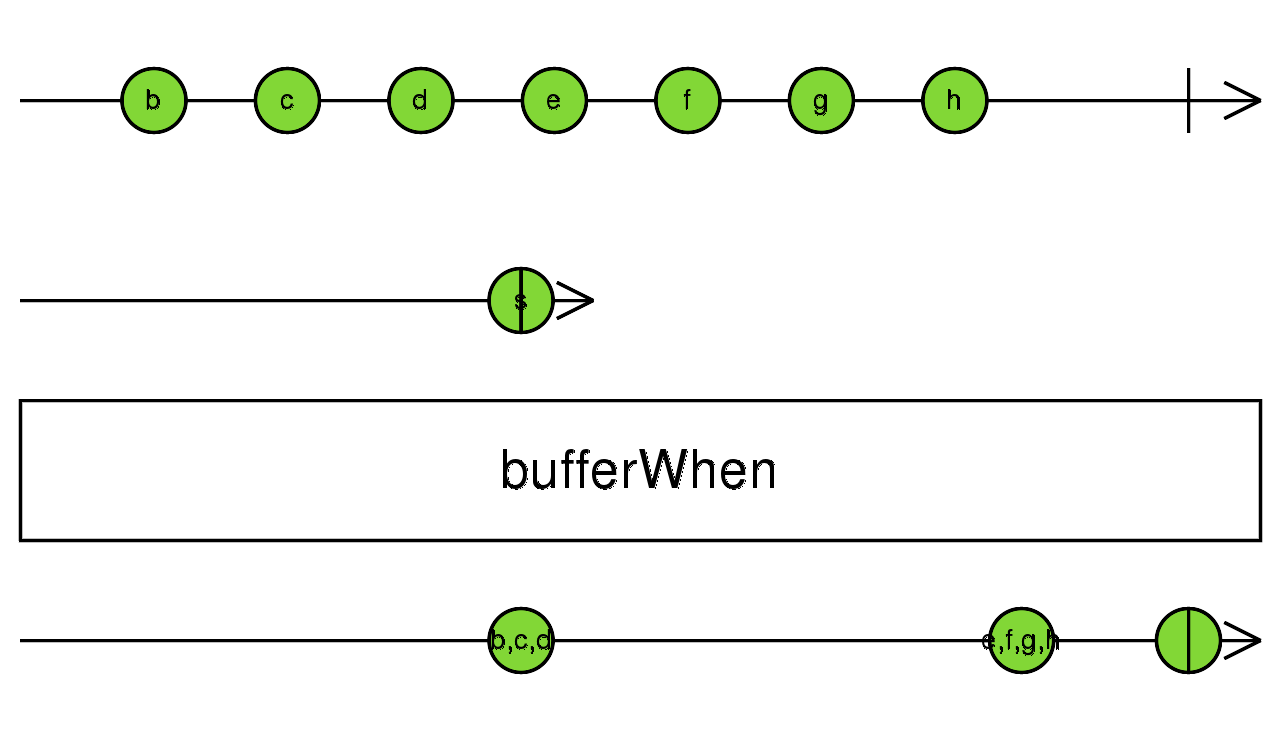
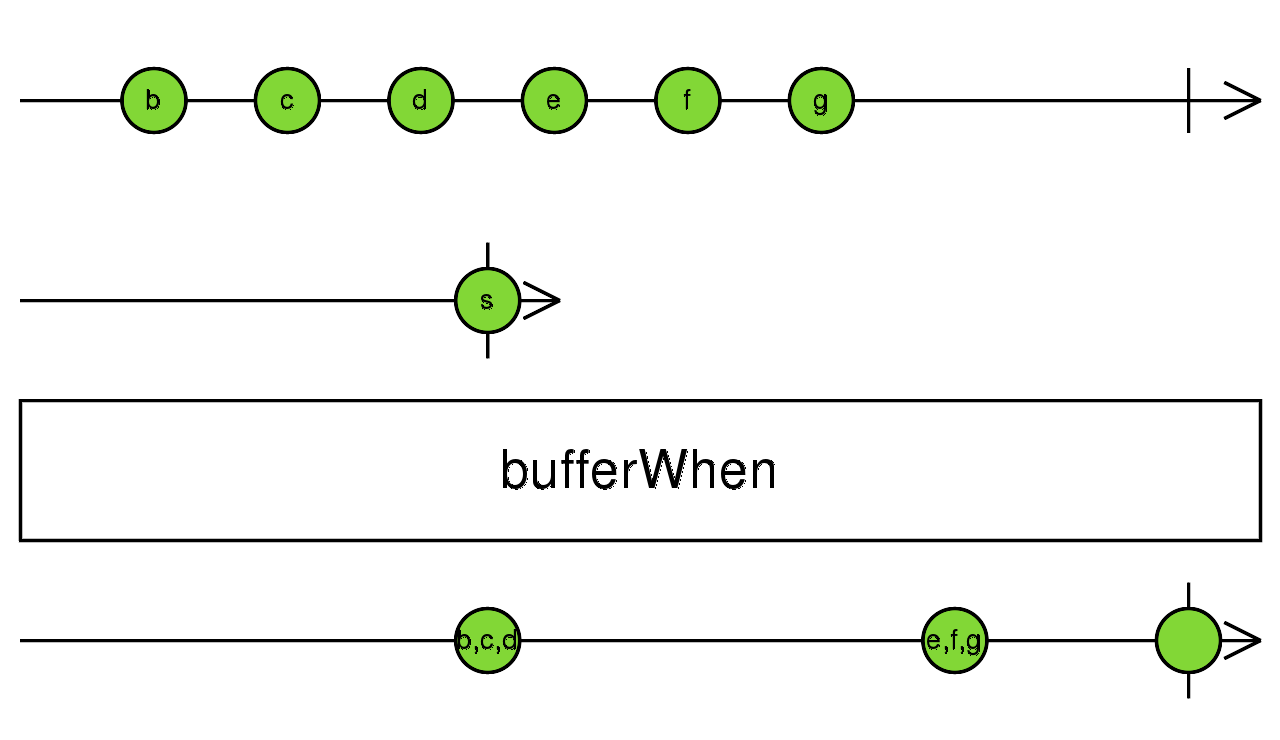
chore(tests2png): prettify Complete marker when it overlaps with a marble
Improve the looks of the complete marker when it overlaps with a marble (both happen at the same
VirtualTimeScheduler frame, or are very close in time).

For issue #697.

diff --git a/spec/helpers/tests2png/painter.js b/spec/helpers/tests2png/painter.js
@@ -66,9 +66,19 @@ function drawError(out, x, y) {
   return out;
 }
 
-function drawComplete(out, x, y) {
+function drawComplete(out, x, y, maxFrame, streamData) {
+  var startX = CANVAS_PADDING +
+    MESSAGES_WIDTH * (streamData.subscription.start / maxFrame);
+  var isOverlapping = streamData.messages.some(function (msg) {
+    if (msg.notification.kind !== 'N') { return false; }
+    var msgX = startX + MESSAGES_WIDTH * (msg.frame / maxFrame);
+    return Math.abs(msgX - x) < MARBLE_RADIUS;
+  });
+  var radius = isOverlapping ? 1.8 * MARBLE_RADIUS : MARBLE_RADIUS;
   out = out.stroke('#000000', 3);
-  out = out.drawLine(x, y - MARBLE_RADIUS, x, y + MARBLE_RADIUS);
+  out = out.drawLine(
+    x, y - radius,
+    x, y + radius);
   return out;
 }
 
@@ -76,12 +86,12 @@ function drawObservableMessages(out, maxFrame, y, streamData) {
   var startX = CANVAS_PADDING +
     MESSAGES_WIDTH * (streamData.subscription.start / maxFrame);
 
-  streamData.messages.forEach(function (message) {
+  streamData.messages.slice().reverse().forEach(function (message) {
     var x = startX + MESSAGES_WIDTH * (message.frame / maxFrame);
     switch (message.notification.kind) {
     case 'N': out = drawMarble(out, x, y, message.notification.value); break;
     case 'E': out = drawError(out, x, y); break;
-    case 'C': out = drawComplete(out, x, y); break;
+    case 'C': out = drawComplete(out, x, y, maxFrame, streamData); break;
     default: break;
     }
   });

diff --git a/spec/operators/bufferWhen-spec.js b/spec/operators/bufferWhen-spec.js
@@ -4,13 +4,13 @@ var Observable = Rx.Observable;
 
 describe('Observable.prototype.bufferWhen', function () {
   it.asDiagram('bufferWhen')('should emit buffers that close and reopen', function () {
-    var e1 = hot('--a--^---b---c---d---e---f---g---h------|');
-    var e2 = cold(    '---------------(s|)');
-    //                                ---------------(s|)
-    var expected =    '---------------x--------------y----(z|)';
+    var e1 = hot('--a--^---b---c---d---e---f---g----------|');
+    var e2 = cold(    '--------------(s|)');
+    //                               ---------------(s|)
+    var expected =    '--------------x--------------y----(z|)';
     var values = {
       x: ['b','c','d'],
-      y: ['e','f','g','h'],
+      y: ['e','f','g'],
       z: []
     };
 

diff --git a/spec/operators/delay-spec.js b/spec/operators/delay-spec.js
@@ -4,11 +4,11 @@ var Observable = Rx.Observable;
 
 describe('Observable.prototype.delay()', function () {
   it.asDiagram('delay')('should delay by specified timeframe', function () {
-    var e1 =   hot('--a--b--|');
+    var e1 =   hot('---a--b--|');
     var expected = '-----a--b--|';
     var subs =     '^          !';
 
-    expectObservable(e1.delay(30, rxTestScheduler)).toBe(expected);
+    expectObservable(e1.delay(20, rxTestScheduler)).toBe(expected);
     expectSubscriptions(e1.subscriptions).toBe(subs);
   });
 

diff --git a/spec/operators/buffer-spec.js b/spec/operators/buffer-spec.js
@@ -5,7 +5,7 @@ var Observable = Rx.Observable;
 describe('Observable.prototype.buffer()', function () {
   it.asDiagram('buffer')('should emit buffers that close and reopen', function () {
     var a =    hot('-a-b-c-d-e-f-g-h-i-|');
-    var b =    hot('-----1-----2-----3-|');
+    var b =    hot('-----B-----B-----B-|');
     var expected = '-----x-----y-----z-|';
     var expectedValues = {
       x: ['a','b','c'],
